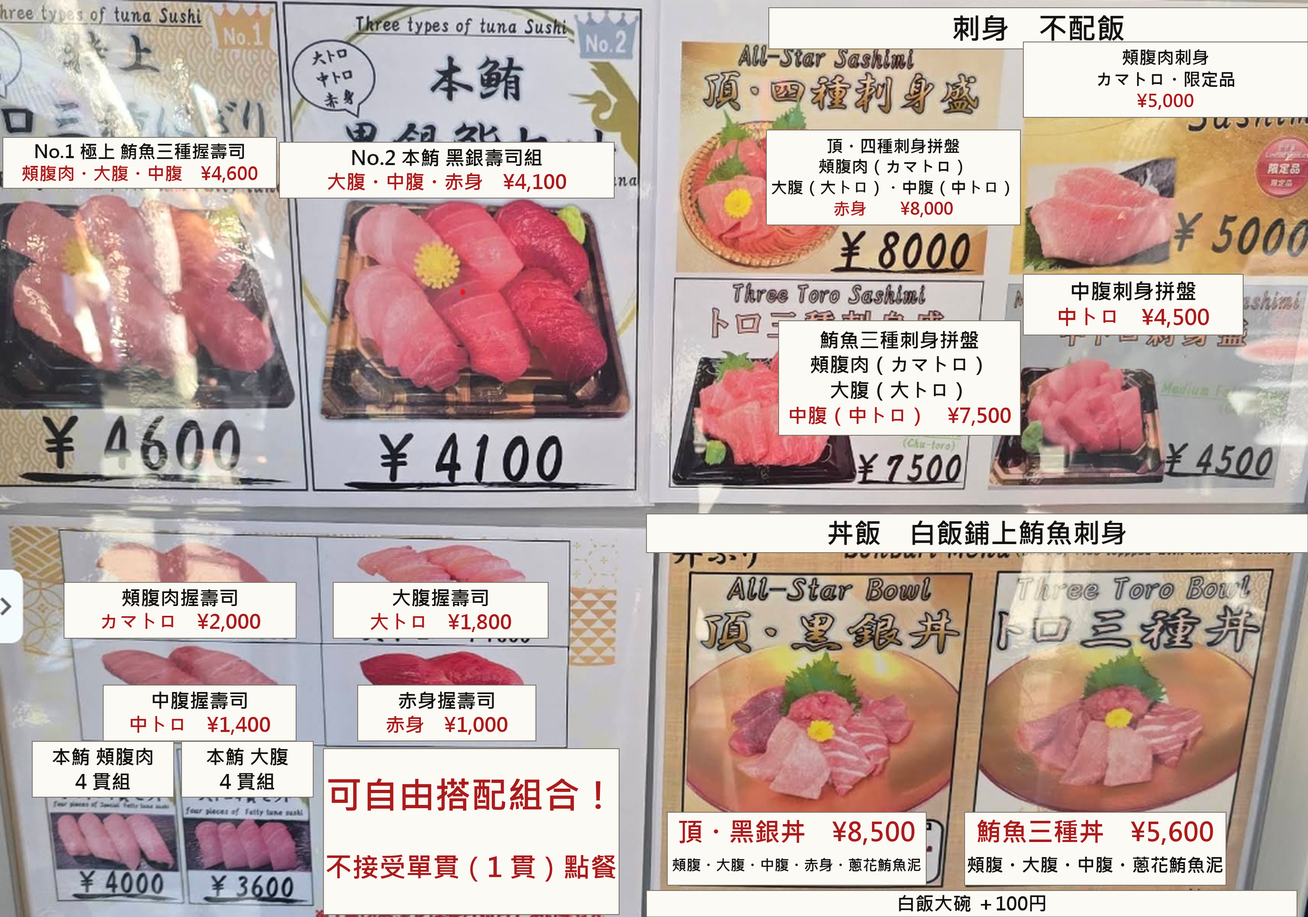
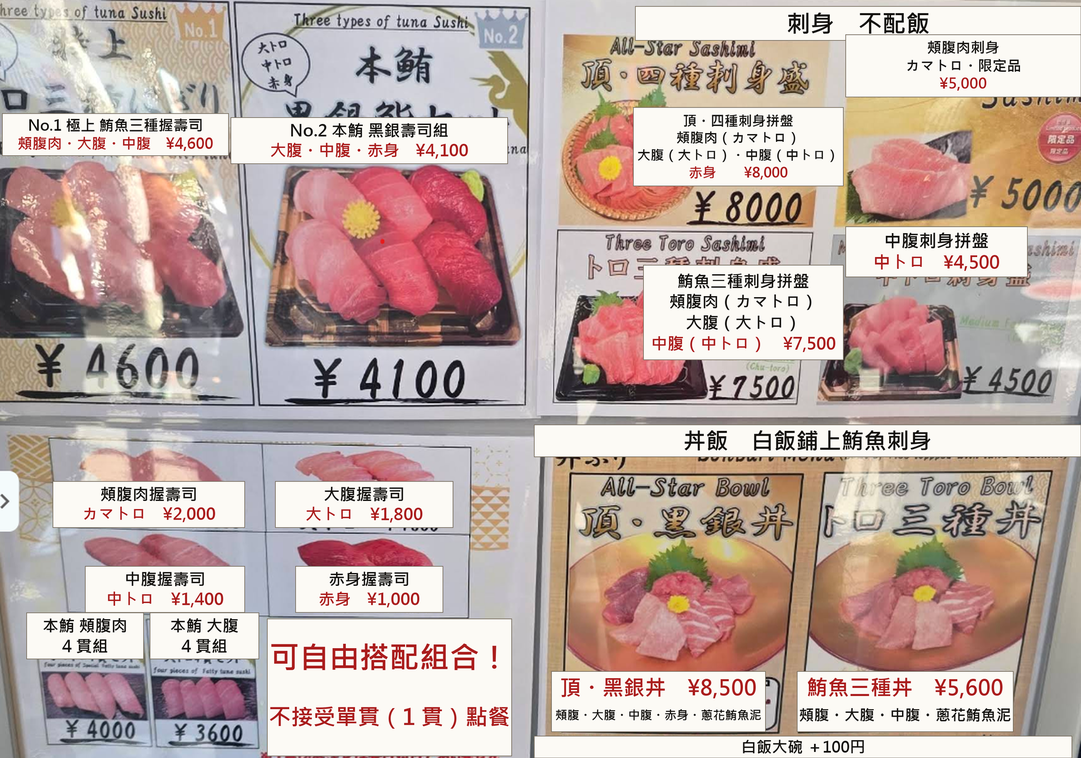
黑銀鮪屋菜單圖縮小以加快載入

diff --git a/scripts/kurogin_overlay.py b/scripts/kurogin_overlay.py
@@ -71,7 +71,7 @@ def main():
             d.text((X0 + (w - (r - l)) / 2 - l, cy - t), text, font=f, fill=COLORS[ck])
     out = "preview.png" if preview else OUT
     if not preview:
-        im = im.resize((int(im.width * 0.75), int(im.height * 0.75)), Image.LANCZOS)
+        im = im.resize((int(im.width * 0.62), int(im.height * 0.62)), Image.LANCZOS)
     im.save(out, optimize=True)
     print("saved", out, im.size, "格數", len(CELLS))
 

diff --git a/變動紀錄.md b/變動紀錄.md
@@ -1,6 +1,8 @@
 
 # 變動紀錄
 
+- **Modify** 2026/10/25 19:22:10 — 黑銀鮪屋菜單輸出縮放由 0.75 降為 0.62（3.36 MB → 2.56 MB），文字仍清晰。
+
 - **Modify** 2026/10/25 19:18:40 — `黑銀鮪屋 Menu ZH.png` 改版：原本「原圖＋下方中文面板」上下對不起來，改為中文直接疊印在海報的品名／價格位置（18 個標籤），壽司與刺身照片保留。涵蓋兩款套餐、四款刺身拼盤、四款單品握壽司、兩款 4 貫組、兩款丼飯，以及「可自由搭配組合／不接受單貫點餐」與「白飯大碗 ＋100円」的告示。
 
 - **Modify** 2026/10/25 18:56:40 — 日期導覽列改為兩行：上排「Day 1～Day 8」小字、下排「01/16」等日期（補前導零），圓角由 99px 改 12px 以配合兩行高度。手機寬度下仍可橫向捲動。
